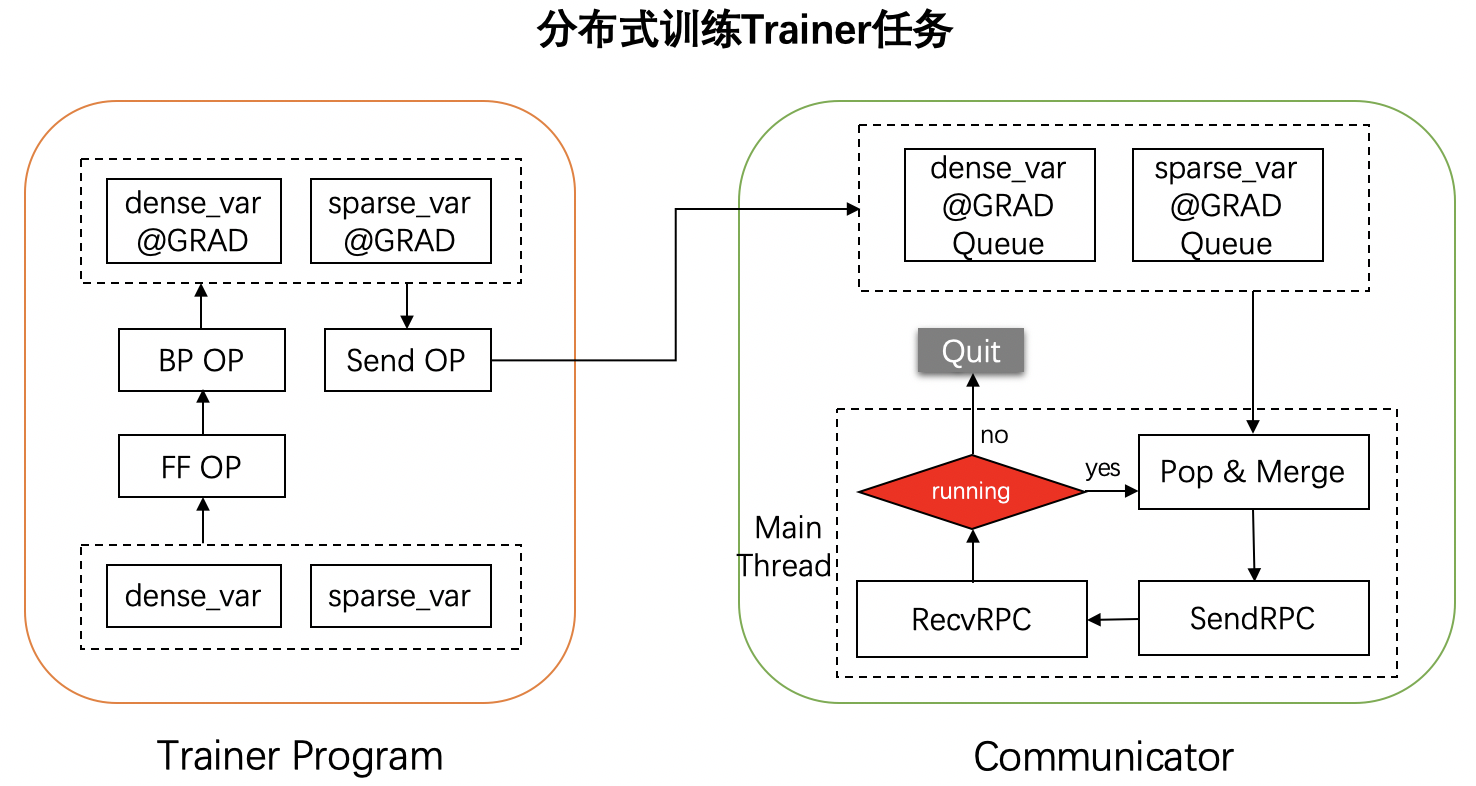
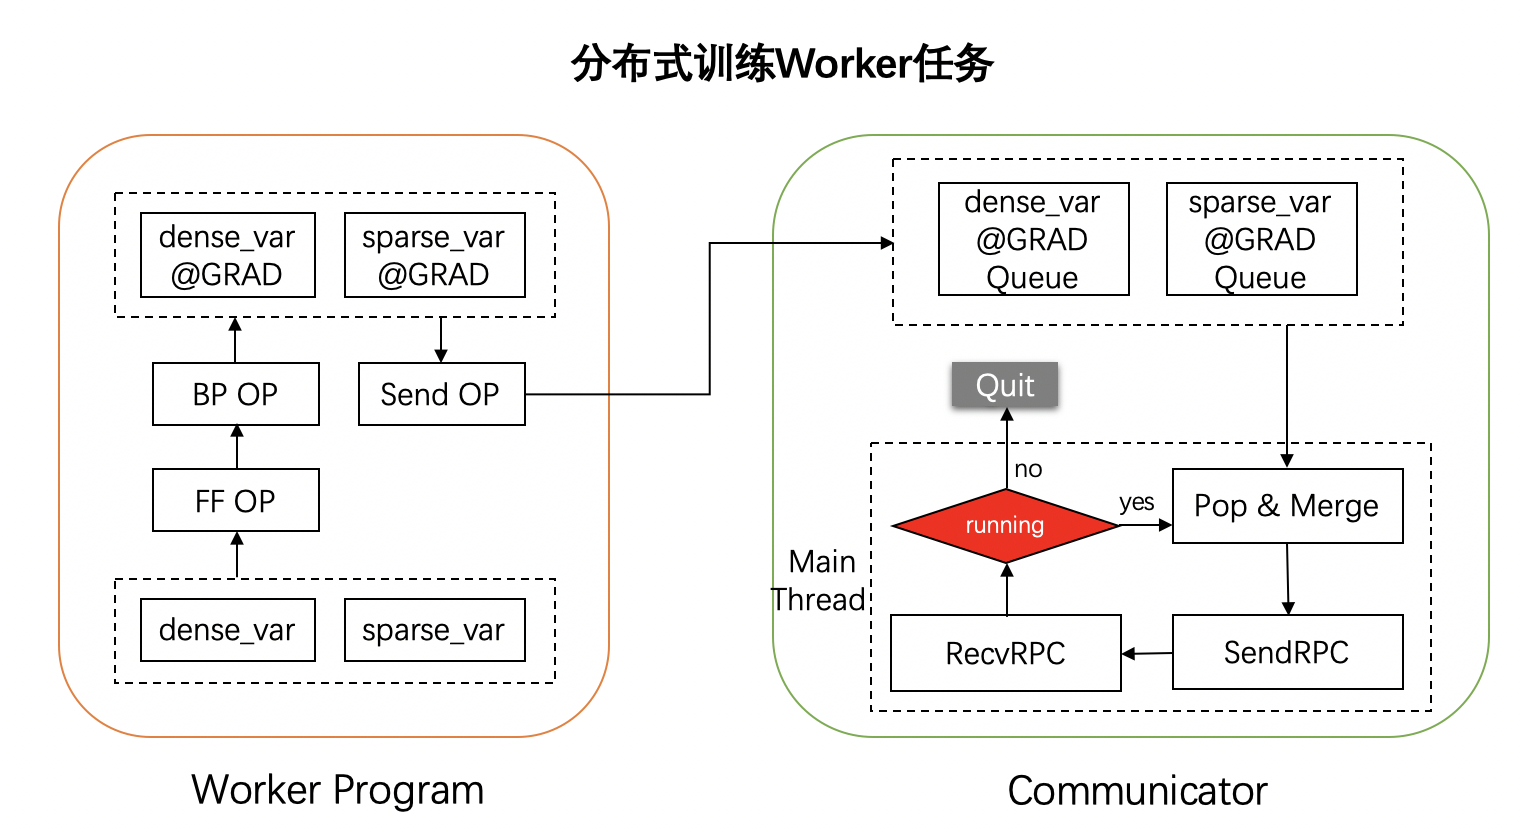
test=develop, fix trainer->worker

diff --git a/docs/source/paddle_fleet_rst/parameter_server/performance/gradient_acc.rst b/docs/source/paddle_fleet_rst/parameter_server/performance/gradient_acc.rst
@@ -5,14 +5,14 @@
 ----
 神经网络的训练过程一般由三部分组成，前向计算、反向传播、参数更新。前向计算获取损失值 `Loss`，然后根据链式法则，反向计算得到每个参数的梯度，最后根据指定的优化算法，完成参数更新。
 
-在多机参数服务器分布式训练中，存在两种不同角色的节点，**Trainer** 和 **Server** ：
+在多机参数服务器分布式训练中，存在两种不同角色的节点，**Worker** 和 **PServer** ：
 
-    -  **Trainer**\：负责完成数据读取、前向计算、反向梯度计算等过程，并将计算出的梯度上传至 **Server** 。
-    -  **Server**\：在收到 **Trainer** 传来的梯度后，根据指定的优化方法，更新参数并将参数发送给 **Trainer** ，开始新一轮的训练。
+    -  **Worker**\：负责完成数据读取、前向计算、反向梯度计算等过程，并将计算出的梯度上传至 **PServer** 。
+    -  **PServer**\：在收到 **Worker** 传来的梯度后，根据指定的优化方法，更新参数并将参数发送给 **Worker** ，开始新一轮的训练。
 
-为了减少通信请求、提高整体训练速度，Trainer在将梯度发送给Server前，往往会将本地的参数梯度进行批量融合（Merge)，然后才发送给Server。一般来说，梯度融合的数量为训练线程数。
+为了减少通信请求、提高整体训练速度，Worker在将梯度发送给PServer前，往往会将本地的参数梯度进行批量融合（Merge)，然后才发送给PServer。一般来说，梯度融合的数量为训练线程数。
 
-本节主要对分布式训练任务中，Trainer节点的梯度融合策略进行介绍。
+本节主要对分布式训练任务中，Worker节点的梯度融合策略进行介绍。
 
 
 原理
@@ -23,16 +23,16 @@
   :alt: 梯度融合及发送流程
   :align: center
 
-上图展示了分布式训练过程中，**Trainer** 任务的整个流程。可以发现，分布式训练中 **Trainer** 任务相较于单机训练任务而言，主要有两点区别：
+上图展示了分布式训练过程中，**Worker** 任务的整个流程。可以发现，分布式训练中 **Worker** 任务相较于单机训练任务而言，主要有两点区别：
 
     1. 分布式训练网络相较于单机组网而言，删除了参数更新算子，增加了通信算子（Send OP）。
     2. 增加了 **Communicator** 通信组件，用以完成梯度融合、发送、接收等操作。
 
-Communicator是分布式参数服务器框架中的通信组件，由多个参数的梯度队列和一个运行主线程组成。Trainer通过前向、反向算子得到参数的梯度后，通过通信算子（Send OP）将梯度发送给Communicator中每个参数对应的梯度队列里。 
+Communicator是分布式参数服务器框架中的通信组件，由多个参数的梯度队列和一个运行主线程组成。Worker通过前向、反向算子得到参数的梯度后，通过通信算子（Send OP）将梯度发送给Communicator中每个参数对应的梯度队列里。 
 
-Communictor在框架中以单例形式存在，在 `fleet.init_worker()` 中完成初始化和启动。启动后，Communicator的主线程会从每个参数的梯度队列中不停取出梯度直至满足融合条件后进行融合，发送至Server，从Server端获取最新的参数用于新的训练，并且重复上述一系列操作直至任务结束。梯度融合的条件有以下两个，满足任意一个即可：
+Communictor在框架中以单例形式存在，在 `fleet.init_worker()` 中完成初始化和启动。启动后，Communicator的主线程会从每个参数的梯度队列中不停取出梯度直至满足融合条件后进行融合，发送至PServer，从PServer端获取最新的参数用于新的训练，并且重复上述一系列操作直至任务结束。梯度融合的条件有以下两个，满足任意一个即可：
     
     - 数量等于最多可允许的梯度融合数阈值。该阈值通过环境变量 `FLAGS_communicator_max_merge_var_num` 配置，默认为 `CPU_NUM` 环境变量指定的线程数，若 `CPU_NUM` 环境变量未定义，则默认为1。
     - 连续多次均未从参数对应的梯度队列里取出值，且尝试次数达到等待阈值。该阈值通过环境变量 `FLAGS_communicator_send_wait_times` 配置，默认为5。
 
-在满足梯度融合条件后，只要待融合的梯度数量大于0，无论其是否等于 `FLAGS_communicator_max_merge_var_num` ，都会进行融合、发送及接收。需要注意的是，Communicator只会从Server端接收稠密参数，稀疏参数的获取是通过前向算子 `distributed_lookup_table` 完成的。
+在满足梯度融合条件后，只要待融合的梯度数量大于0，无论其是否等于 `FLAGS_communicator_max_merge_var_num` ，都会进行融合、发送及接收。需要注意的是，Communicator只会从PServer端接收稠密参数，稀疏参数的获取是通过前向算子 `distributed_lookup_table` 完成的。
